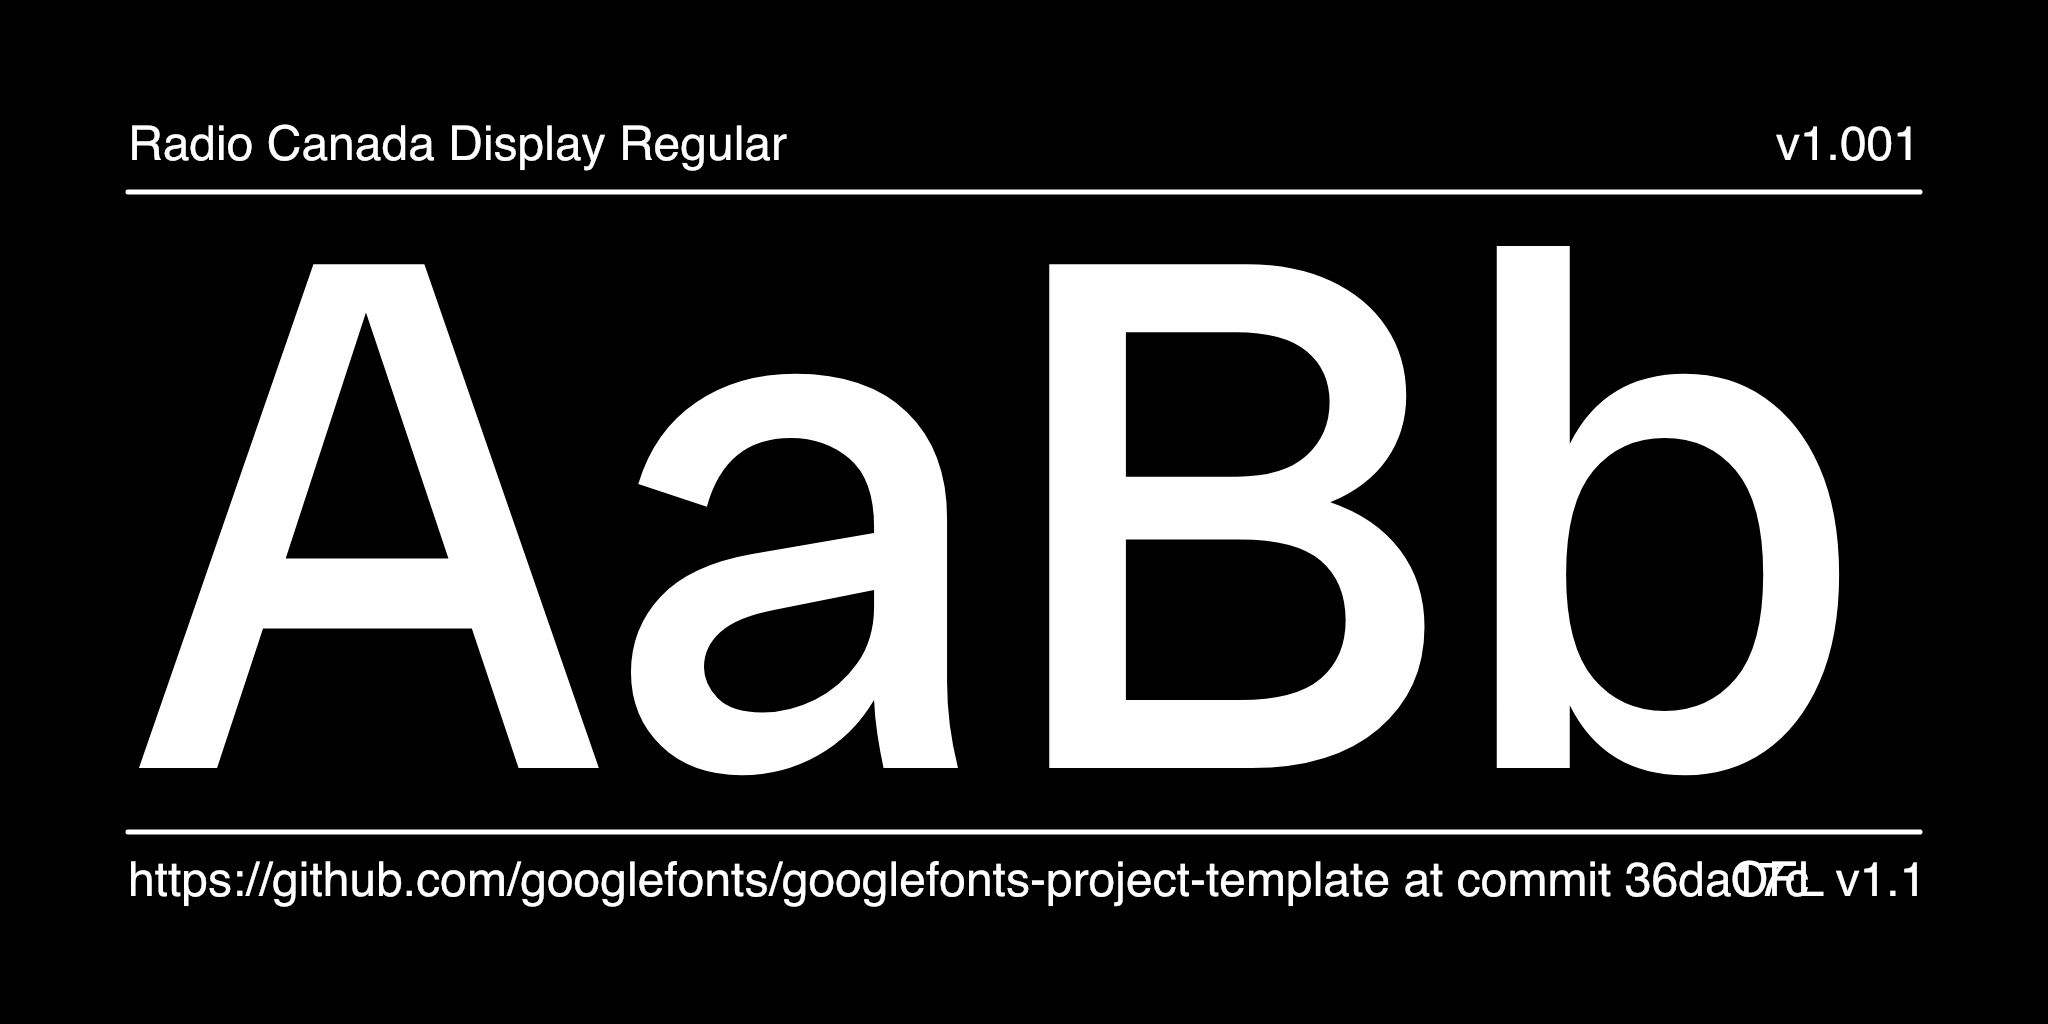
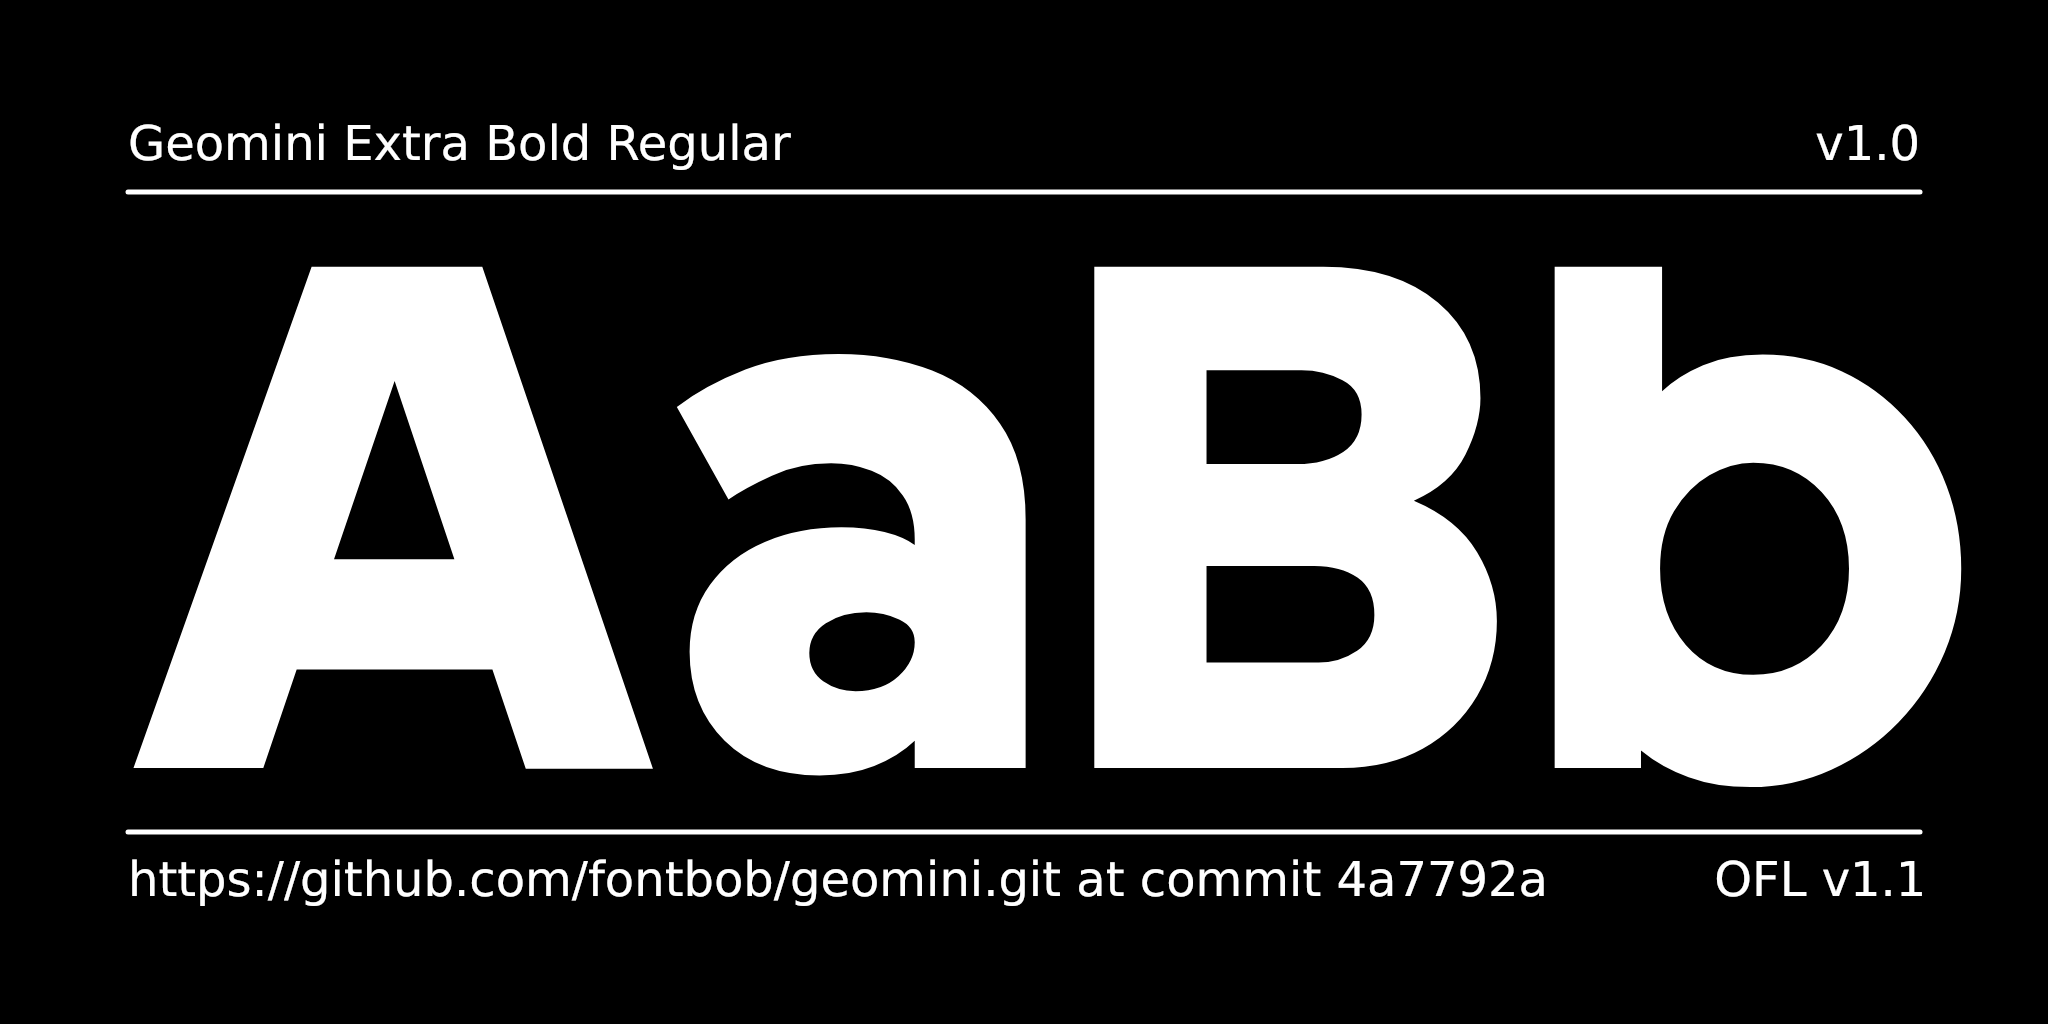
images

diff --git a/documentation/image2.py b/documentation/image2.py
@@ -16,7 +16,7 @@ import argparse
 
 # Constants, these are the main "settings" for the image
 WIDTH, HEIGHT, MARGIN, FRAMES = 2048, 1024, 128, 1
-FONT_PATH = "fonts/ttf/RadioCanadaDisplay-Regular.ttf"
+FONT_PATH = "fonts/ttf/Geomini-800.ttf"
 FONT_LICENSE = "OFL v1.1"
 AUXILIARY_FONT = "Helvetica"
 AUXILIARY_FONT_SIZE = 48
@@ -25,7 +25,7 @@ LINE_ONE = "ABCDEFGHIJKLMNOPQ"
 LINE_TWO = "RSTUVWXYZ123456789"
 LINE_THREE = "abcdefghijklmnopqrstu"
 LINE_FOUR = "vwxyz,.;:!@#$%^&*(){}[]"
-BIG_TEXT_FONT_SIZE = 160
+BIG_TEXT_FONT_SIZE = 140
 BIG_TEXT_SIDE_MARGIN = MARGIN * 1
 BIG_TEXT_BOTTOM_MARGIN = MARGIN * 5.45
 

diff --git a/documentation/image1.py b/documentation/image1.py
@@ -16,13 +16,13 @@ import argparse
 
 # Constants, these are the main "settings" for the image
 WIDTH, HEIGHT, MARGIN, FRAMES = 2048, 1024, 128, 1
-FONT_PATH = "fonts/ttf/RadioCanadaDisplay-Regular.ttf"
+FONT_PATH = "fonts/ttf/Geomini-800.ttf"
 FONT_LICENSE = "OFL v1.1"
 AUXILIARY_FONT = "Helvetica"
 AUXILIARY_FONT_SIZE = 48
 
 BIG_TEXT = "AaBb"
-BIG_TEXT_FONT_SIZE = 730
+BIG_TEXT_FONT_SIZE = 680
 BIG_TEXT_SIDE_MARGIN = MARGIN * 1
 BIG_TEXT_BOTTOM_MARGIN = MARGIN * 2
 

diff --git a/README.md b/README.md
@@ -1,47 +1,3 @@
-## Setting up your font
-
-### New repositories
-
-[X] 1. Hit the green button above ("Use this template") to create your own repository.
-
-[X] 2. Clone the repository, and replace the font sources in the `sources` directory with your own font sources. These sources may be either in Glyphs format or UFO/Designspace formats.\
-   \
-   Unlike many open source distributors, Google Fonts is **curated**. Fonts shipped to the platform have to match the [Google Fonts Specifications](https://github.com/googlefonts/gf-docs/tree/main/Spec). Please read them carefully.\
-   \
-   _(The sample font provided in this template is [Radio Canada](https://github.com/googlefonts/radiocanadadisplay/) by Charles Daoud, Etienne Aubert Bonn, Alexandre Saumier Demers and contributors.)_
-
-[X] 3. Then reference the sources in the file `sources/config.yaml`, as well as making any other changes you would like to make based on the instructions in the [Google Fonts Builder documentation](https://github.com/googlefonts/gftools/blob/main/Lib/gftools/builder/__init__.py).
-
-[X] 4. Add yourself to the `AUTHORS.txt` and `CONTRIBUTORS.txt` files.
-
-[X] 5. Fill out `documentation/DESCRIPTION.en_us.html` with a description about your font.
-
-[ ] 6. Rewrite this Readme file according to the recommendations in the [Google Fonts Guide](https://googlefonts.github.io/gf-guide/readmefile.html).
-
-[X] 7. Add and commit these files to git.
-
-[X] 8. **At the command line, run `make customize` to ensure that all the paths and URLs in your project are correct**. This will also push your changes to GitHub.
-
-[X]9. **Set up your GitHub pages site**: go to Settings > Pages and ensure that the "Source" drop-down is set to "Deploy from a Branch". Ensure that the "Branch" is set to `gh-pages`. If this branch is not available, check that the "Build font and specimen" action in the "Actions" tab has completed; if it completed successfully, then try again - `gh-pages` should now be an option.
-
-[X] 10. If Github Actions has successfully built the family, you will find the font binaries in the Actions tab. The official Github Actions documentation provides further [information](https://docs.github.com/en/actions/managing-workflow-runs/downloading-workflow-artifacts).
-
-### Updating a repository
-
-1. To update your font repository to bring in the latest best-practices from the Google Fonts Project Template, run `make update-project-template` from the command line. This requires the `node` Javascript engine to be installed; if you don't have that already, [follow these instructions](https://nodejs.org/en/download/package-manager#macos) to install on your platform.
-
-2. To update the Python build chain which builds your fonts, run `make update` and `git add`/`git commit` the new `requirements.txt`.
-
-## More things to do
-
-- `CustomFilter_GF_Latin_All.plist` in `sources` is practical if you use GlyphsApp, you can remove it otherwise. Placed in the same directory as the your `.glyphs` file, it will allow Glyphs to display a filter list for all GF Latin glyphsets in app. To make sure your font supports the minimal set required by Google Fonts, look at the `GF_Latin_Core` filter list. Find other glyphsets and list formats for different software in [GF Glyphsets repository](https://github.com/googlefonts/glyphsets/tree/main/GF_glyphsets).
-
-- Once you are happy with your font, add promotional assets in the documentation directory. Make it different from the pic you use in this README. You can get inspired by existing tweet @googlefonts like: https://twitter.com/googlefonts/status/1415562928657416192.
-
-- Google Fonts uses Github Releases to manage font families. If you feel your font project has hit a milestone, you must create a new release for it. In order to do this, go to the releases page and hit the "Draft a new release button". You must provide a tag number and title which can only be a decimal number e.g 0.100, 1.000 etc. For the body text, mention what has changed since the last release. Once you are done, hit the "Publish release" button. Here is an example which fulfills the requirements, https://github.com/m4rc1e/test-ufr-family/releases/tag/2.019. For more info regarding Github release, please see the official Github Release [documentation](https://docs.github.com/en/repositories/releasing-projects-on-github/managing-releases-in-a-repository). **Please note that Github Actions must be able to build the fonts before you can make a release. Once you have made a release, the fonts and tests assets will be attached to the release automatically. This may take a while since the fonts and tests will be built from scratch so please be patient.**
-
----
-
 # Geomini font
 
 [![][Fontspector]](https://fontbob.github.io/geomini.git/fontspector/fontspector-report.html)
@@ -57,7 +13,9 @@
 [Outline Correctness]: https://img.shields.io/endpoint?url=https%3A%2F%2Ffontbob.github.io%2Fgeomini.git%2Fbadges%2FOutlineCorrectnessChecks.json
 [Glyphset]: https://img.shields.io/endpoint?url=https%3A%2F%2Ffontbob.github.io%2Fgeomini.git%2Fbadges%2FGlyphsetChecks.json
 
-Description of your font goes here. We recommend to start with a very short presentation line (the kind you would use on twitter to present your project for example), and then add as much details as necesary :-) Origin of the project, idea of usage, concept of creation… but also number of masters, axes, character sets, etc.
+Geomini is a geometric sans serif font family.
+
+TODO: Further description of your font goes here. We recommend to start with a very short presentation line (the kind you would use on twitter to present your project for example), and then add as much details as necesary :-) Origin of the project, idea of usage, concept of creation… but also number of masters, axes, character sets, etc.
 
 Don't hesitate to create images!
 
